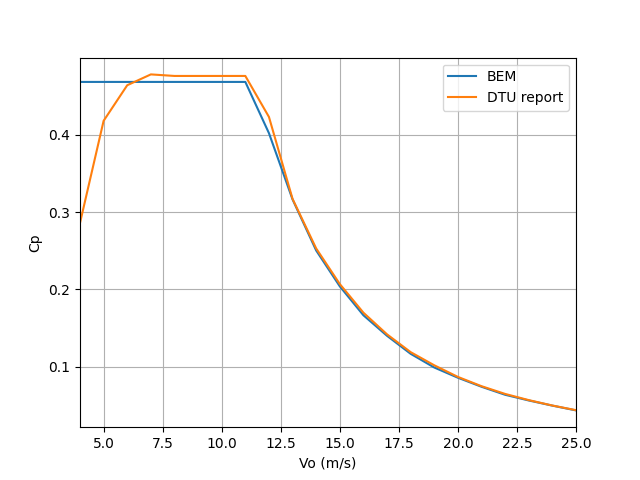
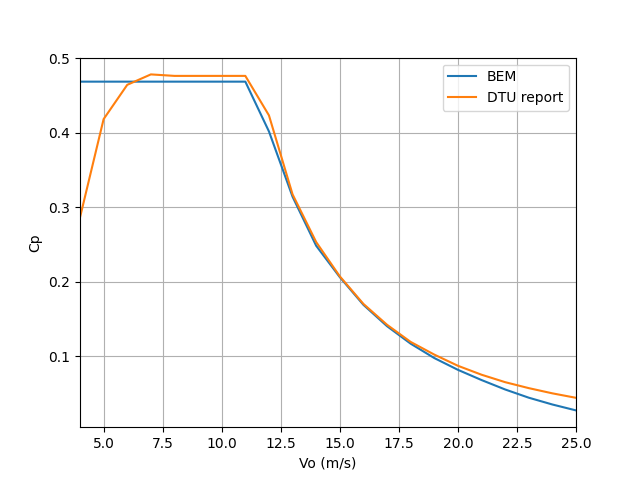
yes

diff --git a/Python codes/Assignment1_Q1_Glauert.py b/Python codes/Assignment1_Q1_Glauert.py
@@ -3,7 +3,7 @@ import numpy as np
 import pandas as pd
 from matplotlib import pyplot as plt
 
-files=['FFA-W3-241.txt','FFA-W3-301.txt','FFA-W3-360.txt','FFA-W3-480.txt','FFA-W3-600.txt','cylinder.txt']
+files=['FFA-W3-301.txt','FFA-W3-301.txt','FFA-W3-360.txt','FFA-W3-480.txt','FFA-W3-600.txt','cylinder.txt']
 #Initializing tables    
 cl_tab=np.zeros([105,6])
 cd_tab=np.zeros([105,6])

diff --git a/Python codes/Assignement1_Q4 copy.py b/Python codes/Assignement1_Q4 copy.py
@@ -159,11 +159,11 @@ for i in range(len(Vo)):
     TSR = w*R/Vo[i]
     P = P_max+1
     T = 0
-    pitch -= pitch_delta
+    pitch += pitch_delta
     print('Vo =',Vo[i], 'w =', w)
 
     while P > P_max and pitch < 90:
-        pitch += pitch_delta
+        pitch -= pitch_delta
         Pn_lst = []
         Pt_lst = []
 

diff --git a/Python codes/Assignment1_Q3.py b/Python codes/Assignment1_Q3.py
@@ -28,6 +28,8 @@ for i in range(len(Vo)):
         w[i] = 0
 
 plt.plot(Vo, w)
-plt.xlabel('Vo(m/s)')
-plt.ylabel('w(rad/s)')
+plt.xlabel('Vo (m/s)')
+plt.ylabel('w (rad/s)')
+plt.xlim(0, 30)
+plt.grid()
 plt.show()
